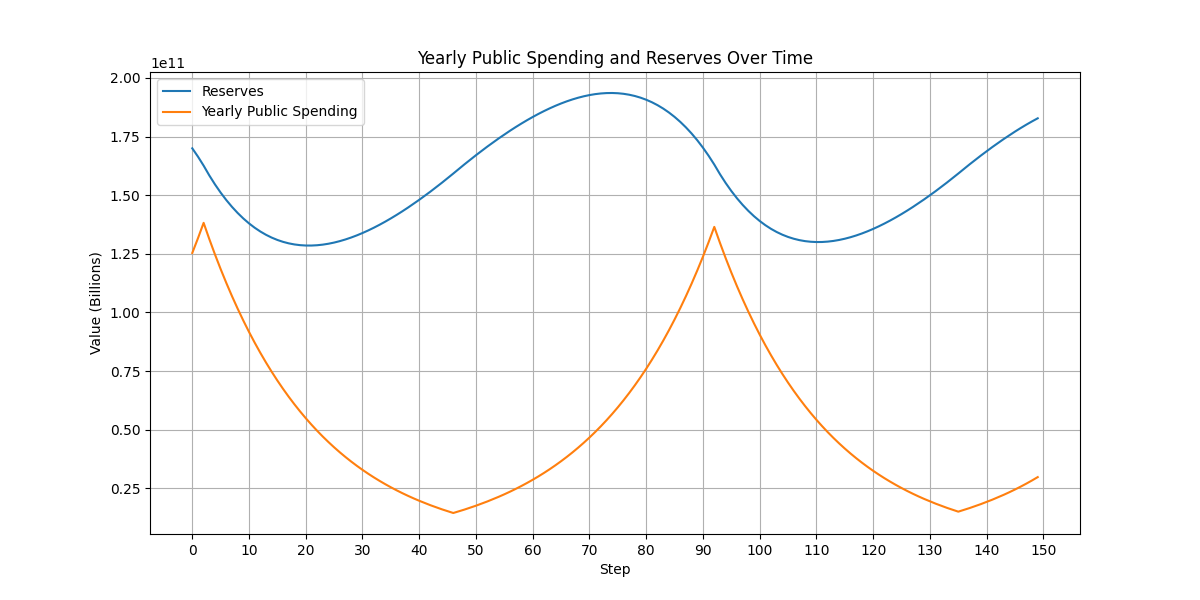
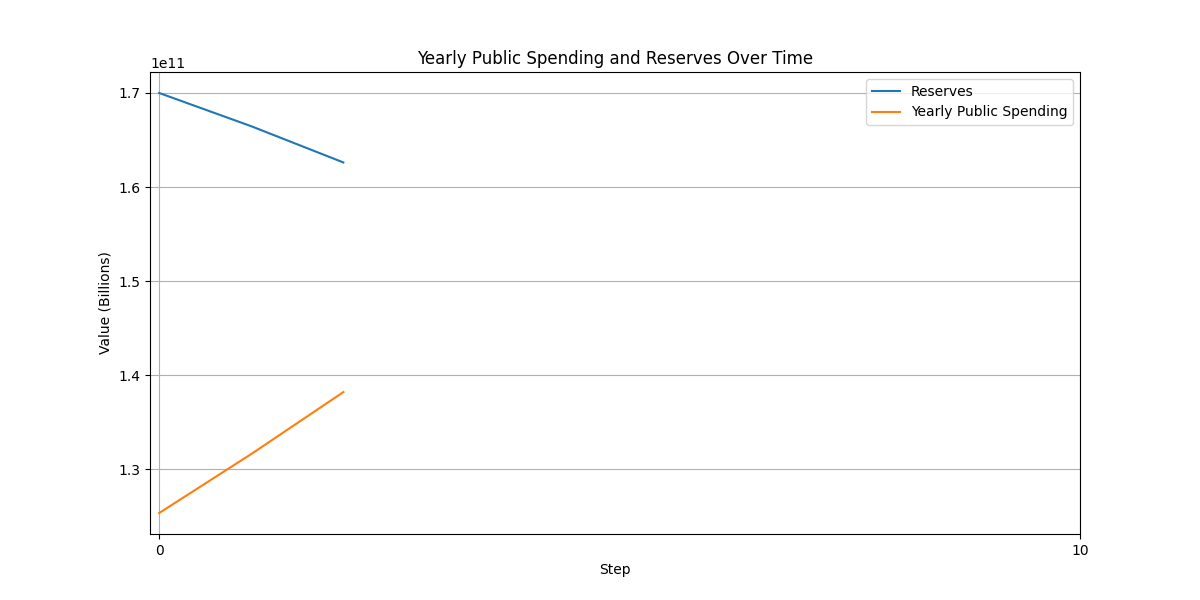
Started FirmAgent. Added revenue, profit, cost calculations as well as random agent creation.

diff --git a/agents/firm_agent.py b/agents/firm_agent.py
@@ -3,28 +3,52 @@ import numpy as np
 import pandas as pd
 
 class FirmAgent(mesa.Agent):
-    def __init__(self, model, reserves=170000000000, inflation_rate=39.05, unemployment_rate=8.4, GDP=118000000000000, yearly_tax_revenue=32828976453, yearly_public_spending=125367000000, interest_rate=0.425):
+    def __init__(self, model, product, production_capacity, product_price, production_cost, average_wage, num_employees, inventory, firm_type="necessity", production_level=1):
         super().__init__(model)
 
-        self.reserves = reserves
-        self.inflation_rate = inflation_rate
-        self.unemployment_rate = unemployment_rate
-        self.GDP = GDP
-        self.yearly_tax_revenue = yearly_tax_revenue
-        self.yearly_public_spending = yearly_public_spending
-        self.interest_rate = interest_rate
-
+        self.product = product
+        self.firm_type = firm_type
+        self.production_capacity = production_capacity
+        self.production_level = production_level
+        self.product_price = product_price
+        self.production_cost = production_cost
+        self.average_wage = average_wage
+        self.num_employees = num_employees
+        self.inventory = inventory
+        self.revenue = 0
+        self.costs = 0
+        self.profit = 0
 
 
     def step(self):
-        step_public_spending = self.yearly_public_spending/20
-        step_tax_revenue = self.yearly_tax_revenue/12
-        self.reserves -= step_public_spending
-        self.reserves += step_tax_revenue
-        if self.reserves < 160000000000:
-            self.yearly_public_spending -= step_public_spending
-            print(f"RESERVES LOW: {str(self.reserves)} ----- Tax Revenue: {str(self.yearly_tax_revenue)} ----- DROPPING Public Spending Level: {str(self.yearly_public_spending)}.")
+        print(f"Before step — Firm {self.unique_id}: Inventory = {self.inventory}")
+
+        self.inventory += round(self.production_capacity*self.production_level)
+        self.costs = self.num_employees*self.average_wage + self.production_cost
+
+        if self.firm_type == "necessity":
+            demand = 5000
         else:
-            print(f"RESERVES GOOD: {self.reserves} ----- Tax Revenue: {self.yearly_tax_revenue} ----- CURRENT Public Spending Level: {self.yearly_public_spending}" , end=" ")
-            self.yearly_public_spending += step_public_spending 
-            print(f"----- NEW Public Spending Level: {self.yearly_public_spending}")
+            demand = 80
+
+        if self.inventory <= demand:
+            deficit = demand - self.inventory
+            self.inventory -= self.inventory
+            print(f"SUPPLY DEFICIT OF {deficit}!!" , end=" ")
+            if self.production_level < 1:
+                if (self.production_level + 0.1) < 1:
+                    self.production_level + 0.1
+                elif (self.production_level + 0.1) > 1:
+                    self.production_level = 1
+        else:
+            self.inventory -= demand
+
+        self.revenue = self.product_price*demand
+        self.profit = self.revenue - self.costs
+        print(f"After step  — Firm {self.unique_id}: Inventory = {self.inventory}")
+
+        
+
+
+        # print(f"[{self.unique_id}], Product: {self.product}, Revenue: {self.revenue},  Costs: {self.costs}, Profit: {self.profit}, Inventory: {self.inventory}")
+

diff --git a/model/economy_model.py b/model/economy_model.py
@@ -1,7 +1,9 @@
 import mesa
 import numpy as np
 import pandas as pd
+import random
 from agents import GovernmentAgent
+from agents import FirmAgent
 
 class EconomicSimulationModel(mesa.Model):
     def __init__(self):
@@ -14,6 +16,40 @@ class EconomicSimulationModel(mesa.Model):
             }
         )
         self.government_agent = GovernmentAgent.create_agents(model=self, n=1)[0]
+        
+        # --- Necessity Firms (30) ---
+        n_necessity = 30
+        FirmAgent.create_agents(
+            model=self,
+            n=n_necessity,
+            firm_type="necessity",
+            product=[f"NecessityProduct_{i}" for i in range(n_necessity)],
+            production_capacity=[random.randint(5000, 10000) for _ in range(n_necessity)],
+            product_price=[random.uniform(10.0, 30.0) for _ in range(n_necessity)],
+            production_cost=[random.uniform(2.0, 5.0) for _ in range(n_necessity)],
+            average_wage=[random.randint(35000, 45000) for _ in range(n_necessity)],
+            num_employees=[random.randint(40, 80) for _ in range(n_necessity)],
+            inventory=[random.randint(2000, 10000) for _ in range(n_necessity)],
+            production_level=[random.uniform(0.9, 1) for _ in range(n_necessity)]
+        )
+
+        # --- Luxury Firms (20) ---
+        n_luxury = 20
+        FirmAgent.create_agents(
+            model=self,
+            n=n_luxury,
+            firm_type="luxury",
+            product=[f"LuxuryProduct_{i}" for i in range(n_luxury)],
+            production_capacity=[random.randint(40, 80) for _ in range(n_luxury)],
+            product_price=[random.uniform(100.0, 150.0) for _ in range(n_luxury)],
+            production_cost=[random.uniform(30.0, 50.0) for _ in range(n_luxury)],
+            average_wage=[random.randint(70000, 100000) for _ in range(n_luxury)],
+            num_employees=[random.randint(5, 30) for _ in range(n_luxury)],
+            inventory=[random.randint(50, 400) for _ in range(n_luxury)],
+            production_level=[random.uniform(0.3, 1) for _ in range(n_luxury)]
+        )
+
+        
 
     def step(self):
         self.datacollector.collect(self)

diff --git a/agents/government_agent.py b/agents/government_agent.py
@@ -27,11 +27,11 @@ class GovernmentAgent(mesa.Agent):
         self.reserves += step_tax_revenue
         if self.reserves < 160000000000:
             self.yearly_public_spending -= step_public_spending
-            print(f"RESERVES LOW: {str(self.reserves)} ----- Tax Revenue: {str(self.yearly_tax_revenue)} ----- DROPPING Public Spending Level: {str(self.yearly_public_spending)}.")
+            # print(f"RESERVES LOW: {str(self.reserves)} ----- Tax Revenue: {str(self.yearly_tax_revenue)} ----- DROPPING Public Spending Level: {str(self.yearly_public_spending)}.")
         else:
-            print(f"RESERVES GOOD: {self.reserves} ----- Tax Revenue: {self.yearly_tax_revenue} ----- CURRENT Public Spending Level: {self.yearly_public_spending}" , end=" ")
+            # print(f"RESERVES GOOD: {self.reserves} ----- Tax Revenue: {self.yearly_tax_revenue} ----- CURRENT Public Spending Level: {self.yearly_public_spending}" , end=" ")
             self.yearly_public_spending += step_public_spending 
-            print(f"----- NEW Public Spending Level: {self.yearly_public_spending}")
+            # print(f"----- NEW Public Spending Level: {self.yearly_public_spending}")
 
         
 

diff --git a/run.py b/run.py
@@ -1,7 +1,7 @@
 import mesa
 from model import EconomicSimulationModel
 from utils import save_model_data
-from data import analysis  # import your analysis function
+from data import analysis
 
 
 
@@ -9,7 +9,7 @@ def main():
     model = EconomicSimulationModel()
     
     # Run the model for 150 steps.
-    for _ in range(150):
+    for _ in range(3):
         model.step()
     
     data = save_model_data(model) # As data grows, you're going to need to change this. Look at ChatGPT's response, search for "single flat CSV"

diff --git a/utils/save_model_data.py b/utils/save_model_data.py
@@ -1,10 +1,8 @@
 import os
 
 def save_model_data(model):
-    # Retrieve data from the model's data collector
     data = model.datacollector.get_model_vars_dataframe()
     
-    # Define the output path relative to the project root.
     output_path = os.path.join("data", "saved_data", "model_data.csv")
     os.makedirs(os.path.dirname(output_path), exist_ok=True)
     

diff --git a/agents/__init__.py b/agents/__init__.py
@@ -1,5 +1,5 @@
 from .government_agent import GovernmentAgent
-#from .firm_agent import FirmAgent
+from .firm_agent import FirmAgent
 #from .household_agent import HouseholdAgent
 
 # Now, when someone does:
